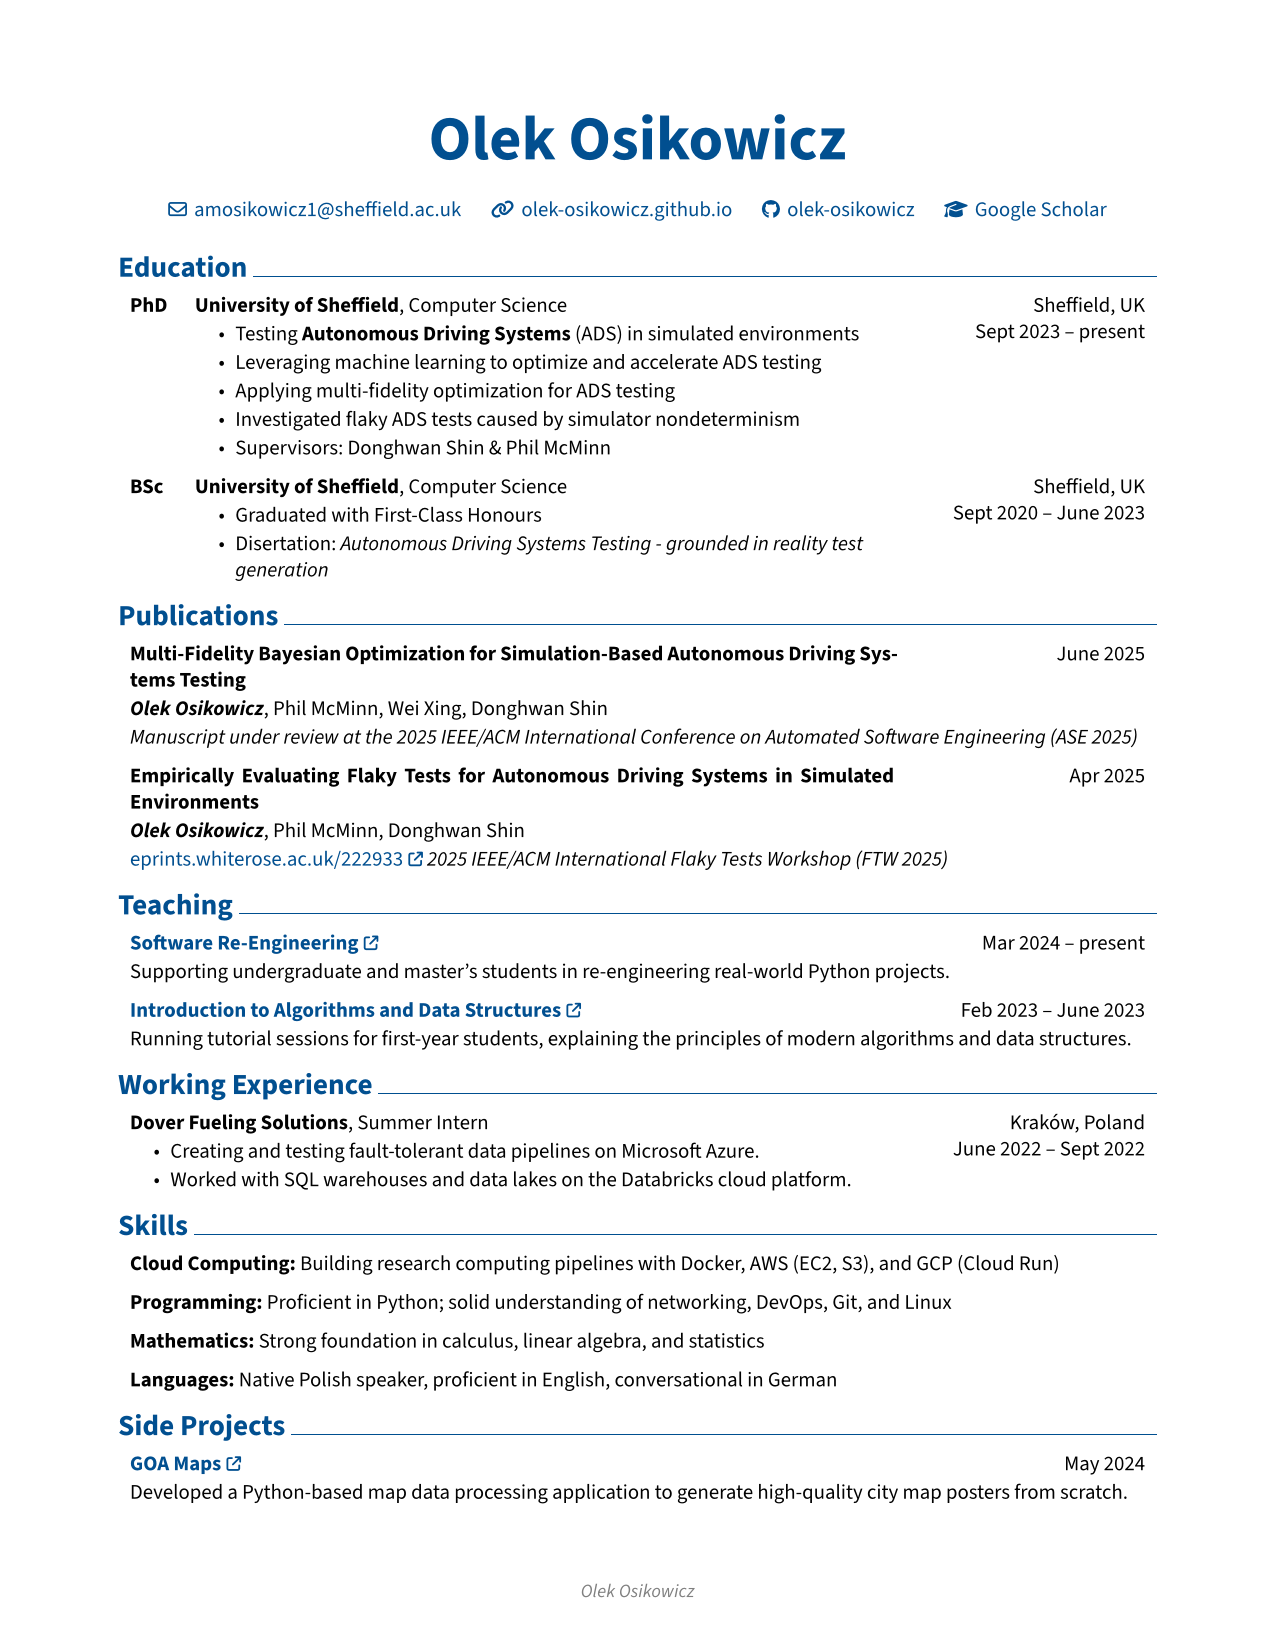
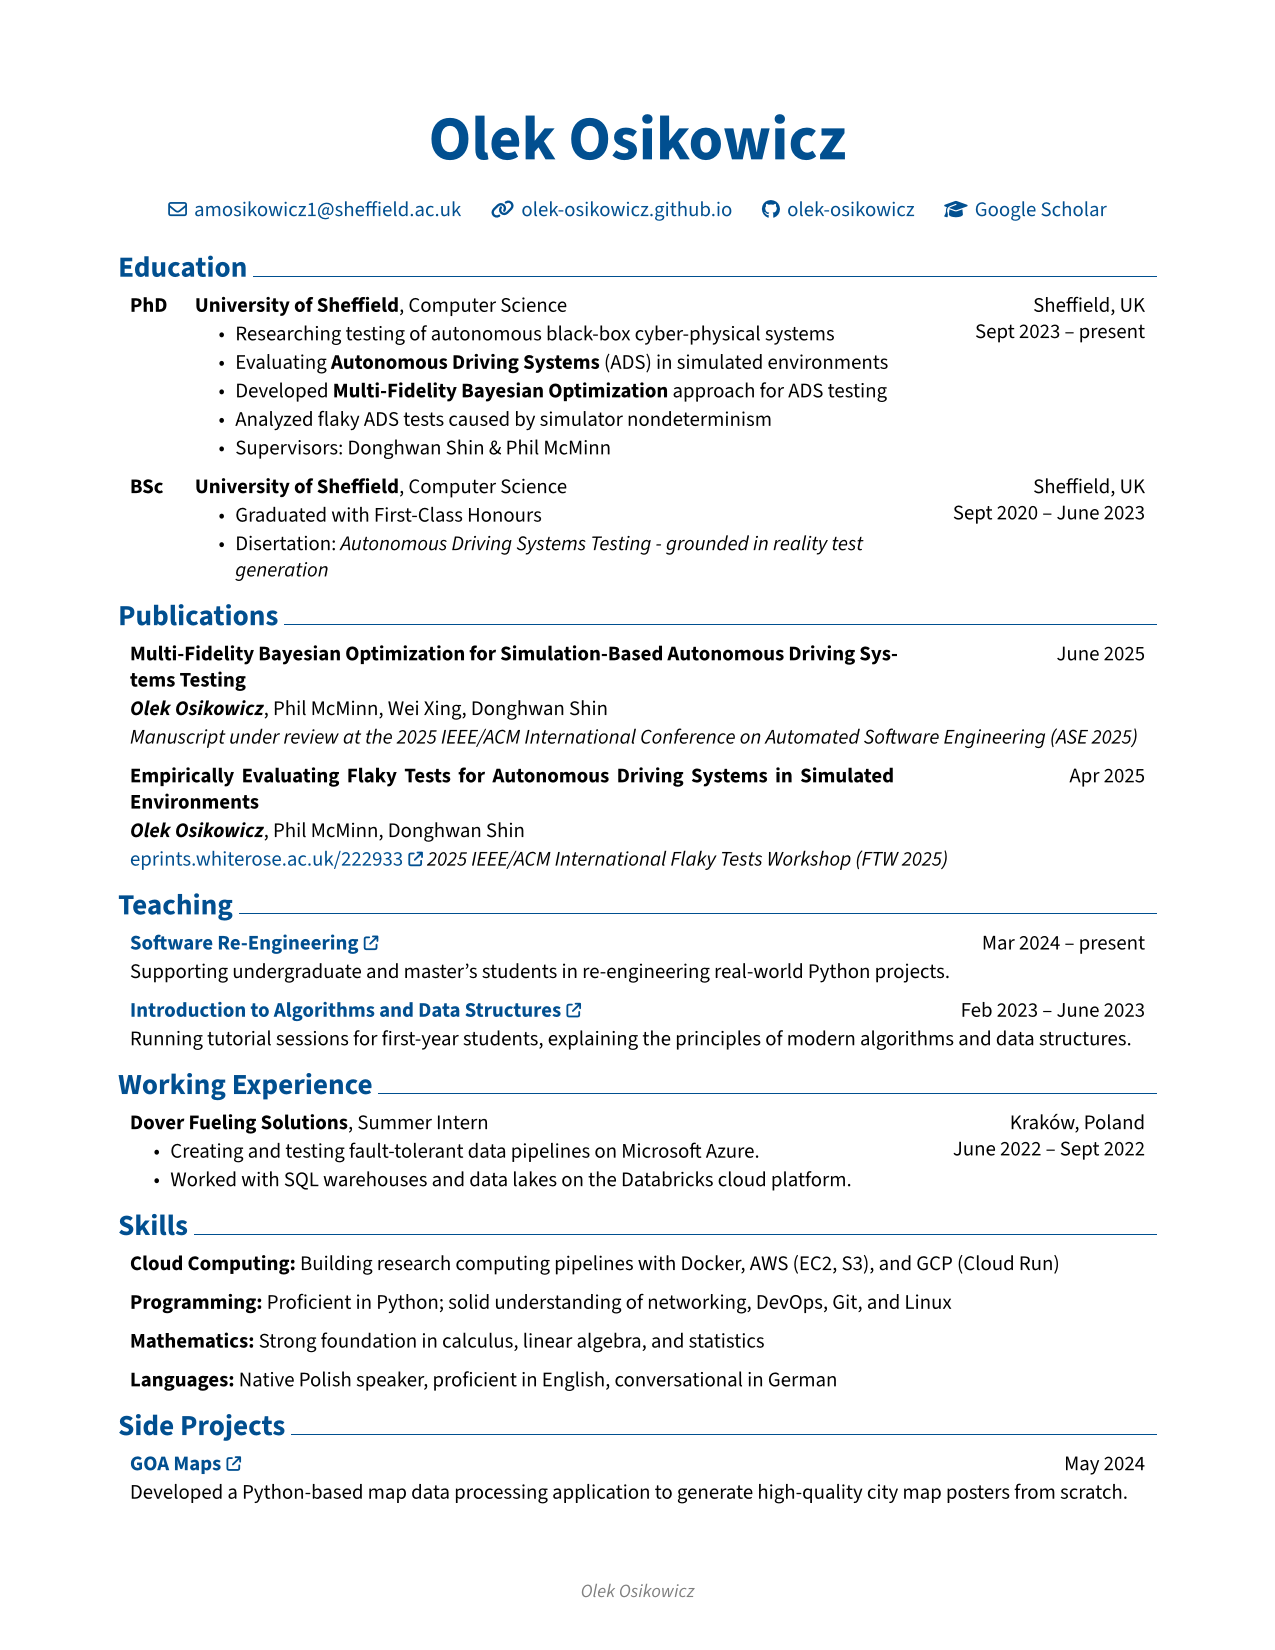
Update highlights

Changed region(s): [[0.1835, 0.1855, 0.7035, 0.2782]]

diff --git a/rendercv_output/Olek_Osikowicz_CV.html b/rendercv_output/Olek_Osikowicz_CV.html
@@ -51,10 +51,10 @@
         <ul>
         <li>Sept 2023 – present</li>
         <li>Sheffield, UK</li>
-        <li>Testing <strong>Autonomous Driving Systems</strong> (ADS) in simulated environments</li>
-        <li>Leveraging machine learning to optimize and accelerate ADS testing</li>
-        <li>Applying multi-fidelity optimization for ADS testing</li>
-        <li>Investigated flaky ADS tests caused by simulator nondeterminism</li>
+        <li>Researching testing of autonomous black-box cyber-physical systems</li>
+        <li>Evaluating <strong>Autonomous Driving Systems</strong> (ADS) in simulated environments</li>
+        <li>Developed <strong>Multi-Fidelity Bayesian Optimization</strong> approach for ADS testing</li>
+        <li>Analyzed flaky ADS tests caused by simulator nondeterminism</li>
         <li>Supervisors: Donghwan Shin &amp; Phil McMinn</li>
         </ul>
         <h2>University of Sheffield, BSc in Computer Science</h2>

diff --git a/rendercv_output/Olek_Osikowicz_CV.md b/rendercv_output/Olek_Osikowicz_CV.md
@@ -12,10 +12,10 @@
 
 - Sept 2023 – present
 - Sheffield, UK
-- Testing **Autonomous Driving Systems** (ADS) in simulated environments
-- Leveraging machine learning to optimize and accelerate ADS testing
-- Applying multi-fidelity optimization for ADS testing
-- Investigated flaky ADS tests caused by simulator nondeterminism
+- Researching testing of autonomous black-box cyber-physical systems
+- Evaluating **Autonomous Driving Systems** (ADS) in simulated environments
+- Developed **Multi-Fidelity Bayesian Optimization** approach for ADS testing
+- Analyzed flaky ADS tests caused by simulator nondeterminism
 - Supervisors: Donghwan Shin & Phil McMinn
 
 ## University of Sheffield, BSc in Computer Science
